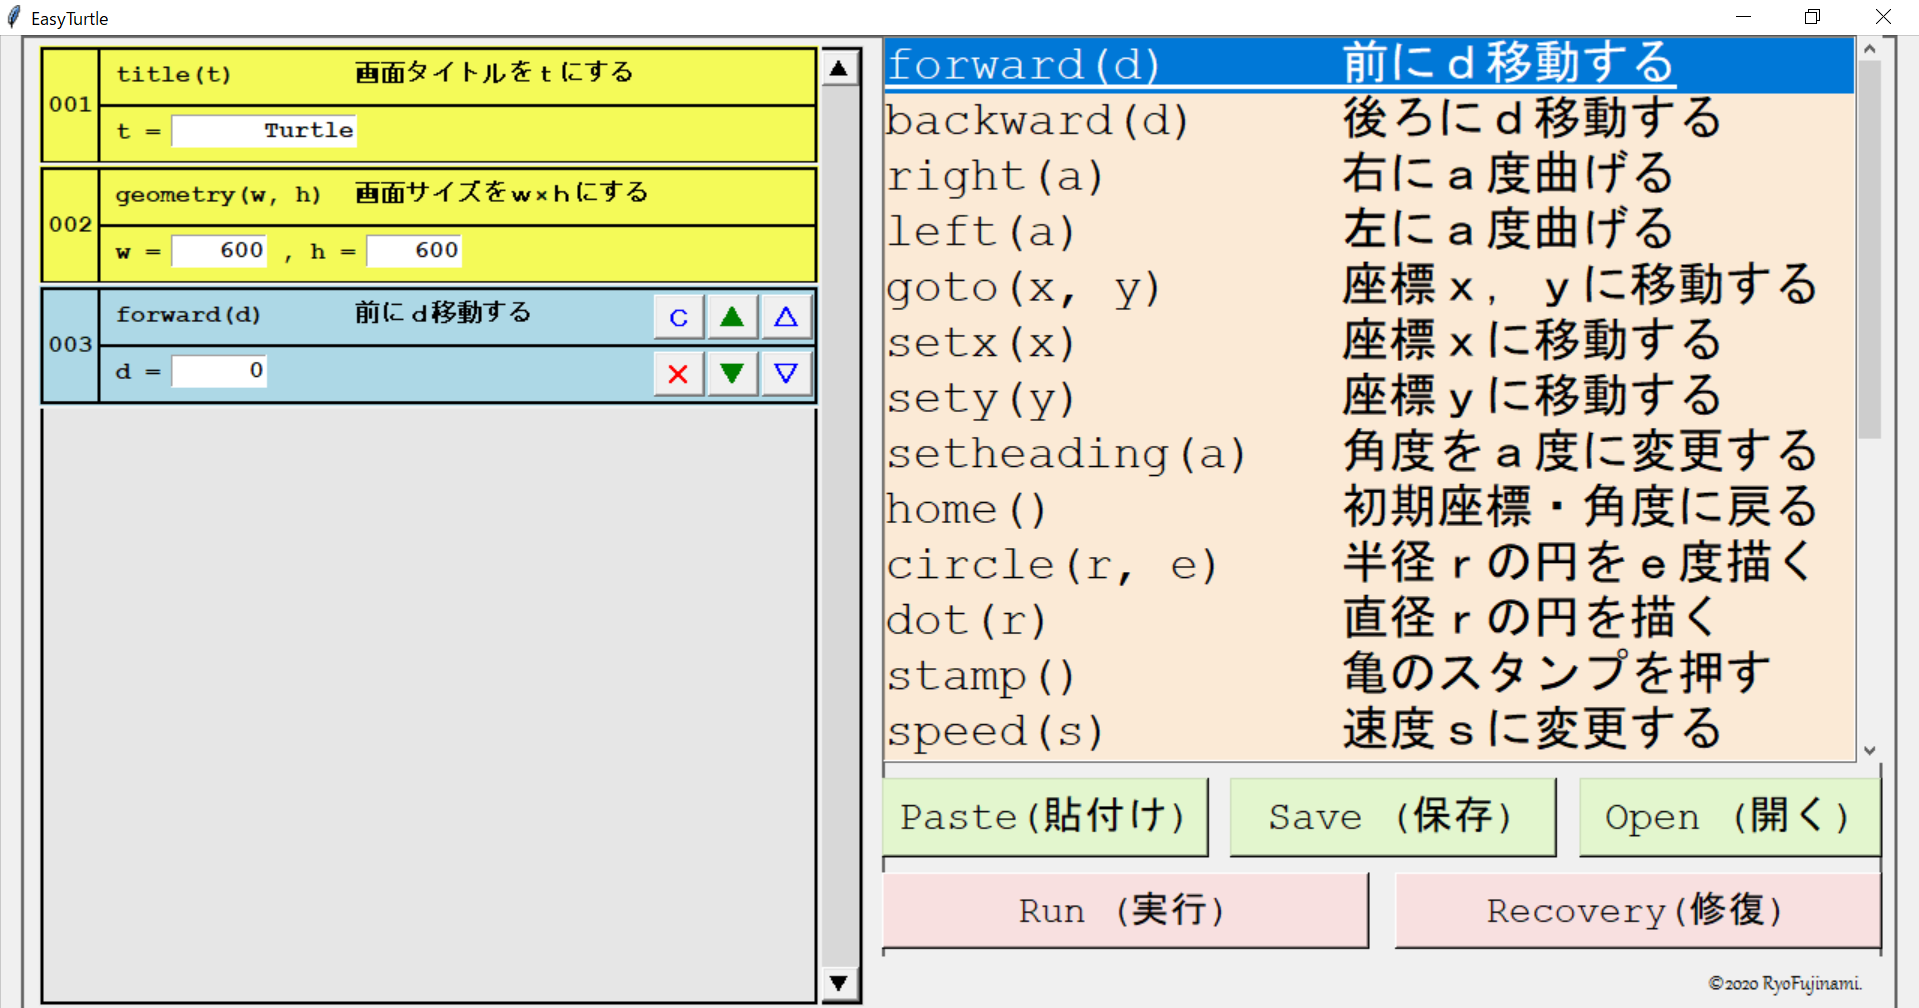
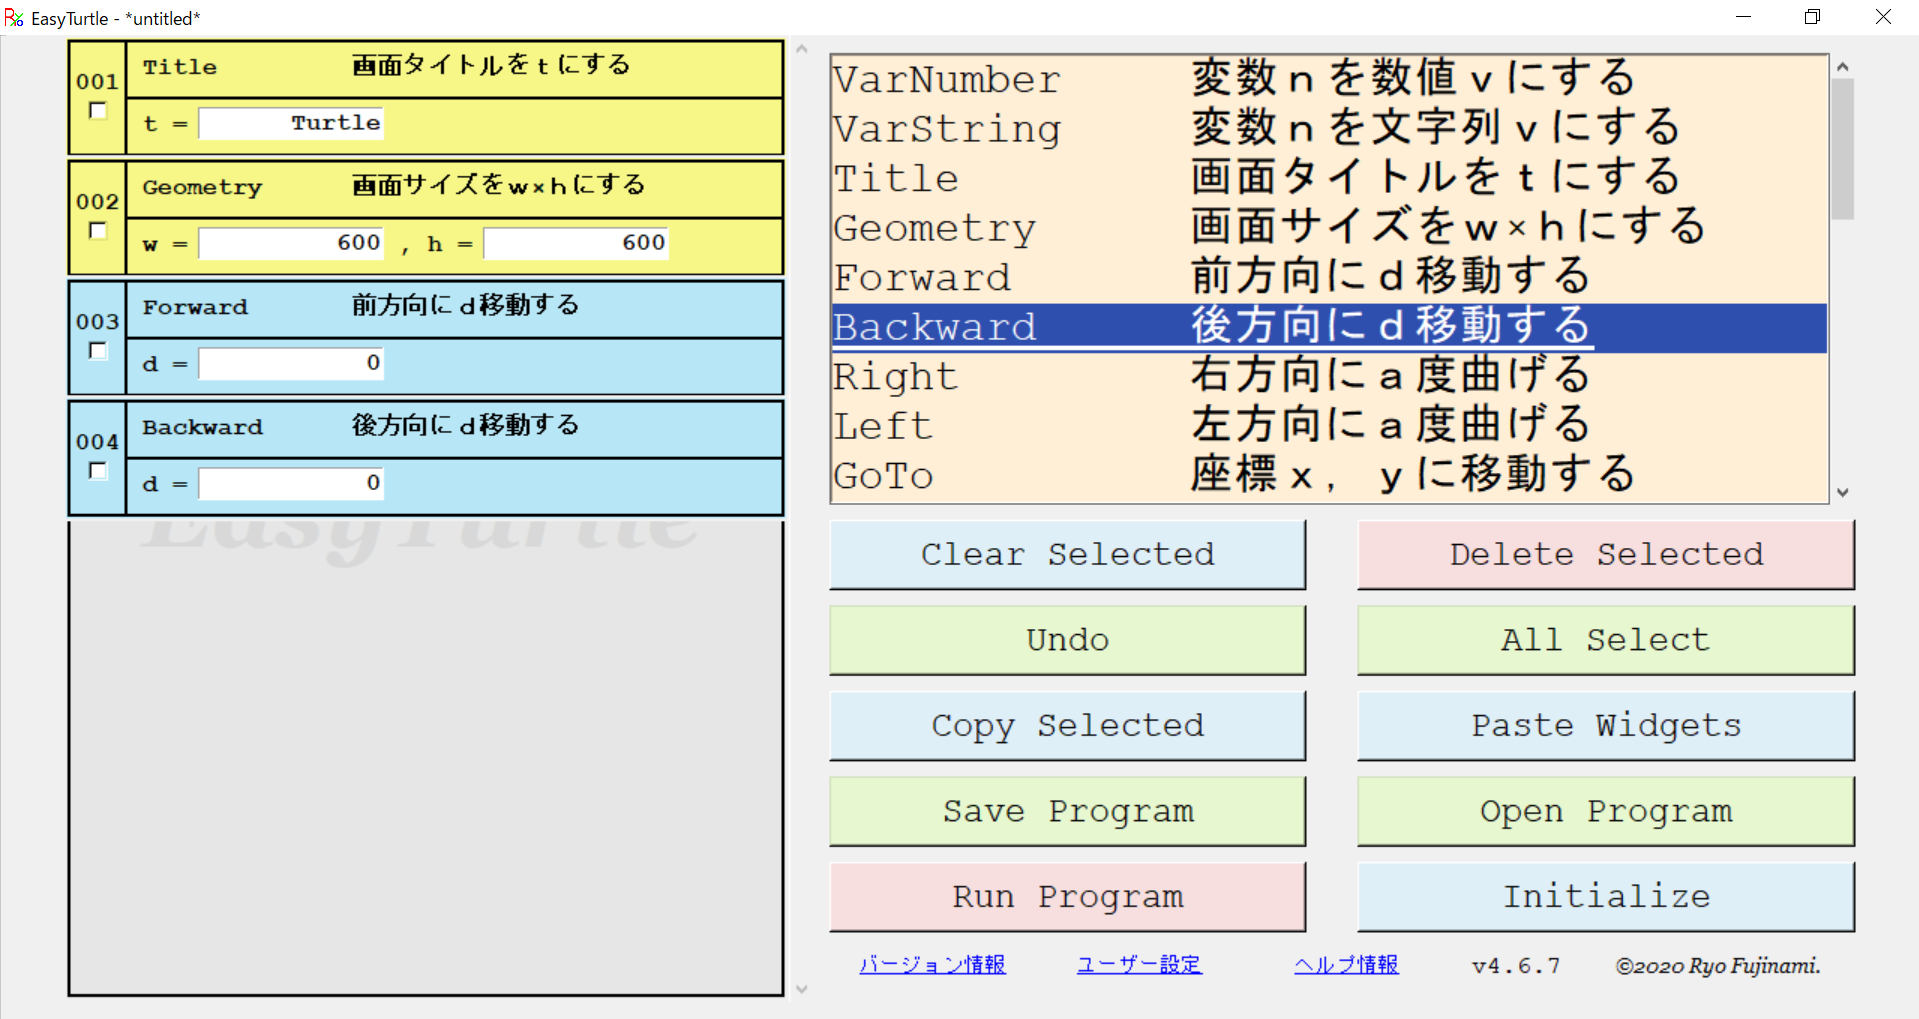
いくつかのファイルを変更しました

diff --git a/Files/Tutorial.html b/Files/Tutorial.html
@@ -34,60 +34,23 @@
                 <h3>ウィジェットを追加する</h3>
                 <p>右側のリストでウィジェットを選択すると左側のリストにウィジェットが追加されます。</p>
                 <p><img src="./Photos/photo2.png" alt="photo" width="400" height="200"></p>
-                <h3>ウィジェット内のボタン</h3>
-                <p>追加されたウィジェットにはそれぞれ６つずつボタンが付いています。　※注１・注２</p>
-                <p><img src="./Photos/photo13.png" alt="photo" width="400" height="60"></p>
-                <p>※注１：WriteウィジェットやColorウィジェットにはオプションボタンもついています。</p>
-                <p><img src="./Photos/photo14.png" alt="photo" width="400" height="60"></p>
-                <p>※注２：TitleウィジェットやGeometryウィジェットにはボタンはありません。</p>
-                <p><img src="./Photos/photo15.png" alt="photo" width="400" height="60"></p>
-                <table border="1">
-                    <thead>
-                        <tr>
-                            <th>ボタン</th>
-                            <th>説明</th>
-                        </tr>
-                    </thead>
-                    <tbody>
-                        <tr>
-                            <td><strong>Ｃ</strong></td>
-                            <td>ウィジェットをコピーする</td>
-                        </tr>
-                        <tr>
-                            <td><strong>Ｘ</strong></td>
-                            <td>ウィジェットを削除する</td>
-                        </tr>
-                        <tr>
-                            <td><strong>▲</strong></td>
-                            <td>ウィジェットを１つ上げる</td>
-                        </tr>
-                        <tr>
-                            <td><strong>▼</strong></td>
-                            <td>ウィジェットを１つ下げる</td>
-                        </tr>
-                        <tr>
-                            <td><strong>△</strong></td>
-                            <td>ウィジェットを１番上に上げる</td>
-                        </tr>
-                        <tr>
-                            <td><strong>▽</strong></td>
-                            <td>ウィジェットを１番下に下げる</td>
-                        </tr>
-                    </tbody>
-                </table>
+                <h3>ウィジェットを変更する</h3>
+                <p>ウィジェットを右クリックすることでメニューが表示されます。</p>
+                <p><img src="./Photos/photo13.png" alt="photo" width="400" height="200"></p>
+                <p>※注：WriteウィジェットやColorウィジェットにはオプションもついています。</p>
                 <h3>コピー＆ペースト</h3>
                 <h4>複数のウィジェットのコピー</h4>
-                <p>「Copy Selectedボタン」を押すことでコピーすることができます。</p>
+                <p>Copy Selectedを押すことでコピーすることができます。</p>
                 <h4>複数のウィジェットのペースト</h4>
-                <p>「Paste Widgetsボタン」を押すことで左側のリストにコピーしたウィジェットを追加できます。</p>
+                <p>Paste Widgetsを押すことで左側のリストにコピーしたウィジェットを追加できます。</p>
                 <h3>実行する</h3>
-                <p>「Run Programボタン」を押すと新しいウィンドウが作られ実行されます。</p>
+                <p>Run Programを押すと新しいウィンドウが作られ実行されます。</p>
                 <p><img src="./Photos/photo3.png" alt="photo" width="400" height="200"></p>
                 <h3>データを保存する</h3>
-                <p>保存ボタンを押すと保存用ウィンドウが作られファイル名を入れると保存できます。</p>
+                <p>Save Programを押すと保存用ウィンドウが作られファイル名を入れると保存できます。</p>
                 <p><img src="./Photos/photo6.png" alt="photo" width="400" height="200"></p>
                 <h3>保存したデータを開く</h3>
-                <p>開くボタンを押すと開く用ウィンドウが作られファイルを選択すると開くことができます。</p>
+                <p>Open Programを押すと開く用ウィンドウが作られファイルを選択すると開くことができます。</p>
                 <p><img src="./Photos/photo7.png" alt="photo" width="400" height="200"></p>
                 <h2>ウィジェットの説明</h2>
                 <table border="1">
@@ -243,7 +206,7 @@
                 </table>
                 <p>※１：このウィジェットはコメント用です。</p>
                 <p>※２：このウィジェットが表示されたときにはJsonファイルが破損していないか確認してください。</p>
-                <p>2020/09/13 v3.4 Ryo Fujinami.</p>
+                <p>2020/12/09 v4.6 Ryo Fujinami.</p>
             </article>
         </div>
     </section>
